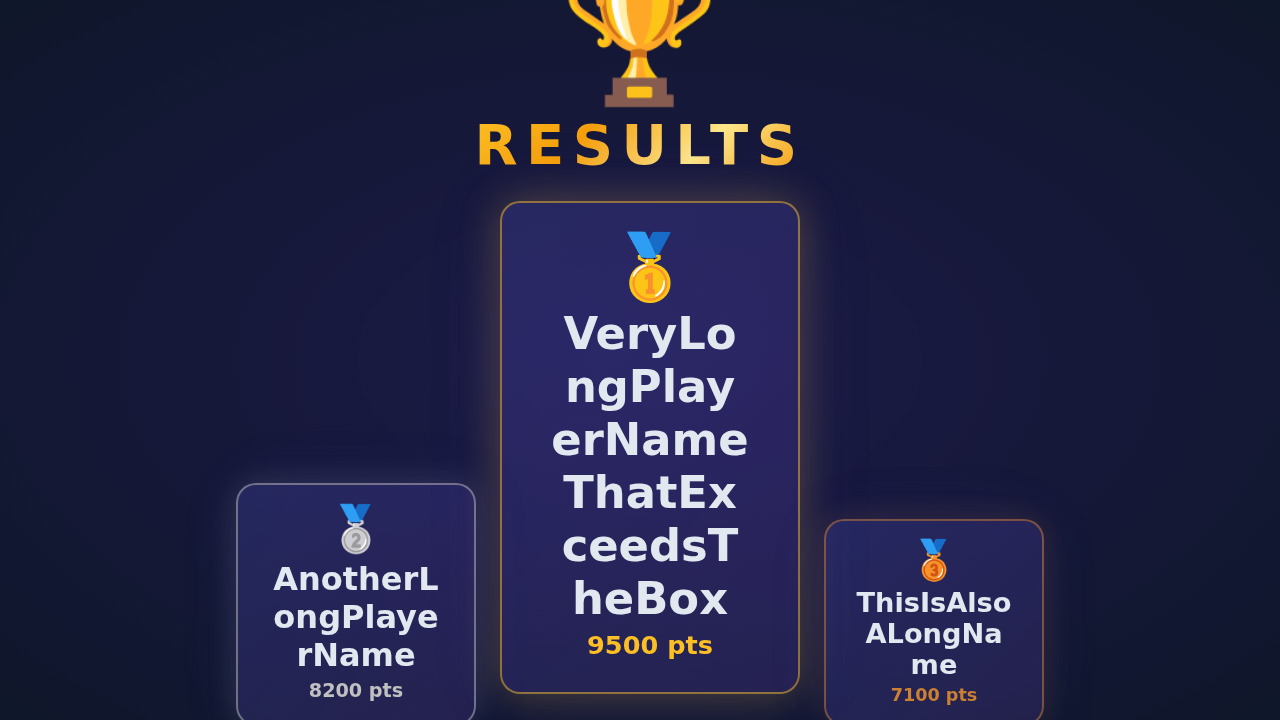
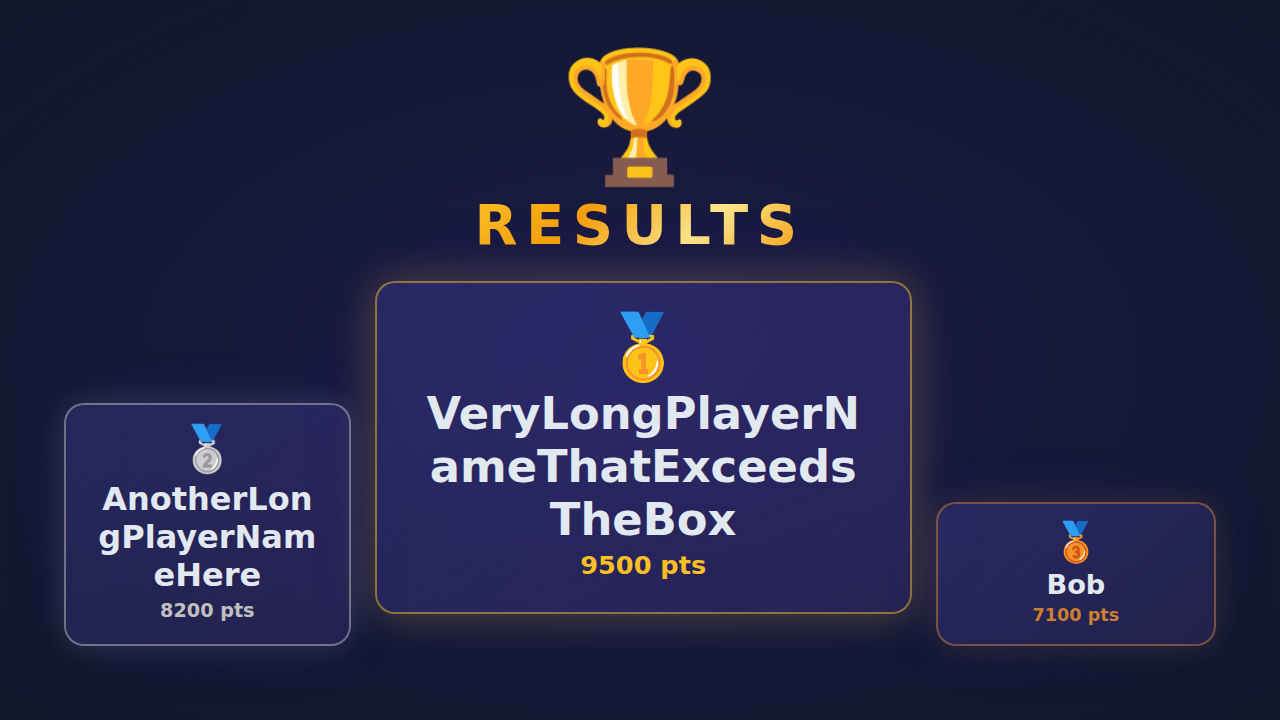
fix: keep winner podium centered with long player names
Switch podium from unconstrained flex to proportional flex layout:
- Give .podium a viewport-relative width (min(90vw, 1400px)) so flex
  proportions are calculable
- Give 1st place flex: 2 1 0 (twice the share) so it stays centered
  and prominent
- Give 2nd and 3rd flex: 1 1 0 with min-width: 0 so they always share
  space equally regardless of name length
- Add word-break / overflow-wrap to .podium-name so long names wrap
  within their box instead of overflowing

Agent-Logs-Url: https://github.com/MichaMican/custom-quiz-host/sessions/1f77019b-a8dd-411a-bce5-086b548d7ceb

diff --git a/customquizhost.client/src/pages/Display.css b/customquizhost.client/src/pages/Display.css
@@ -850,6 +850,7 @@
   gap: 1.5rem;
   align-items: flex-end;
   justify-content: center;
+  width: min(90vw, 1400px);
   margin-bottom: 2rem;
 }
 
@@ -866,10 +867,9 @@
 /* 1st place: center, biggest, elevated */
 .podium-entry-1 {
   order: 2;
+  flex: 2 1 0;
   padding: 2rem 3rem;
   margin-bottom: 2rem;
-  max-width: 300px;
-  width: 300px;
   border: 2px solid rgba(251, 191, 36, 0.5);
   box-shadow: 0 0 40px rgba(251, 191, 36, 0.25), 0 0 80px rgba(99, 102, 241, 0.1);
   animation-delay: 0s;
@@ -890,9 +890,9 @@
 /* 2nd place: left, medium size */
 .podium-entry-2 {
   order: 1;
+  flex: 1 1 0;
+  min-width: 0;
   padding: 1.4rem 2rem;
-  max-width: 240px;
-  width: 240px;
   border: 2px solid rgba(192, 192, 192, 0.5);
   box-shadow: 0 0 30px rgba(192, 192, 192, 0.15), 0 0 60px rgba(99, 102, 241, 0.1);
   animation-delay: 0.15s;
@@ -913,9 +913,9 @@
 /* 3rd place: right, smallest */
 .podium-entry-3 {
   order: 3;
+  flex: 1 1 0;
+  min-width: 0;
   padding: 1.2rem 1.8rem;
-  max-width: 220px;
-  width: 220px;
   border: 2px solid rgba(205, 127, 50, 0.5);
   box-shadow: 0 0 30px rgba(205, 127, 50, 0.15), 0 0 60px rgba(99, 102, 241, 0.1);
   animation-delay: 0.3s;
